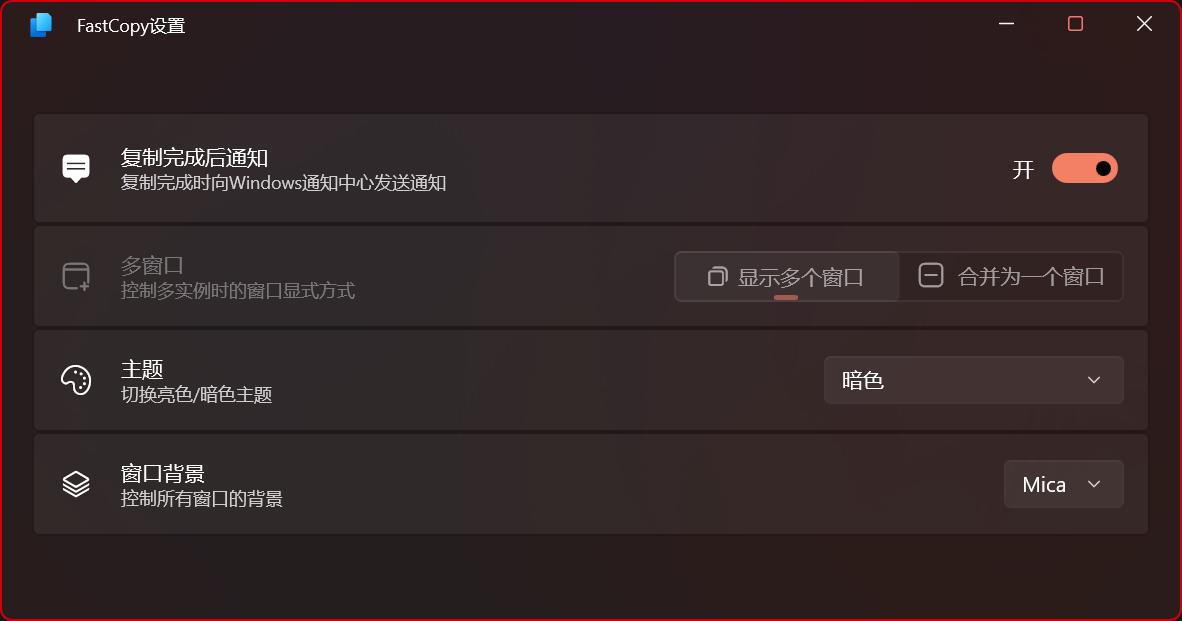
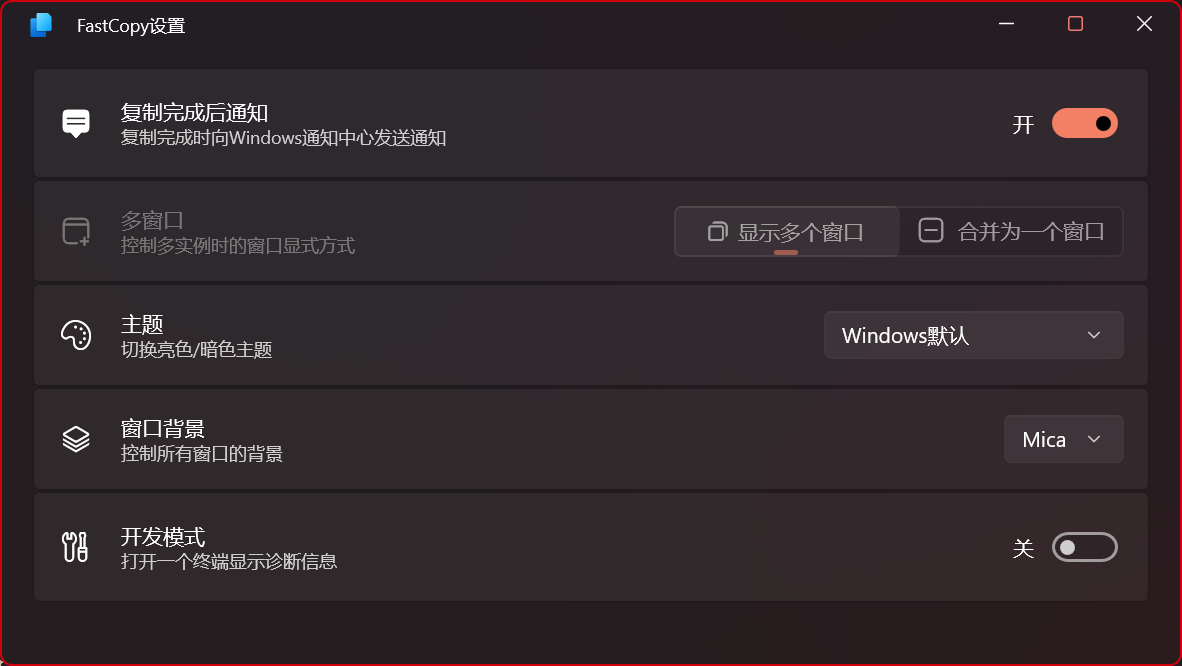
Minor fixes for window size under English

diff --git a/FastCopy/SettingsWindow.xaml b/FastCopy/SettingsWindow.xaml
@@ -9,7 +9,6 @@
     xmlns:mc="http://schemas.openxmlformats.org/markup-compatibility/2006"
     Title="SettingsWindow"
     Width="800"
-    Height="420"
     Activated="WindowEx_Activated"
     Icon="Assets/Main.ico"
     IsMaximizable="False"

diff --git a/FastCopyShellExtension/CopyOperationNames.cpp b/FastCopyShellExtension/CopyOperationNames.cpp
@@ -2,22 +2,13 @@
 #include <Windows.h>
 #include <algorithm>
 #include <string>
-
-static std::wstring getDefaultLanguage()
-{
-    ULONG bytes{};
-    ULONG numLanguages{};
-    GetUserPreferredUILanguages(MUI_LANGUAGE_NAME, &numLanguages, nullptr, &bytes);
-    std::wstring buffer(bytes, {});
-    GetUserPreferredUILanguages(MUI_LANGUAGE_NAME, &numLanguages, buffer.data(), &bytes);
-    return std::wstring{ buffer.data() };
-}
+#include <PackageConfig.h>
 
 CopyOperationNames& CopyOperationNames::GetInstance()
 {
     static CopyOperationNames s_instance = []
     {
-        auto defaultLang = getDefaultLanguage();
+        auto defaultLang = PackageConfig::GetDefaultLanguage();
         std::transform(defaultLang.begin(), defaultLang.end(), defaultLang.begin(), [](wchar_t c) { return towlower(c); });
         if (defaultLang == L"en-us")
         {

diff --git a/FastCopy/WelcomeWindow.xaml.cpp b/FastCopy/WelcomeWindow.xaml.cpp
@@ -6,6 +6,7 @@
 #include <SettingsWindow.xaml.h>
 #include "Global.h"
 #include "WindowHelper.h"
+#include <PackageConfig.h>
 
 // To learn more about WinUI, the WinUI project structure,
 // and more about our project templates, see: http://aka.ms/winui-project-info.
@@ -16,8 +17,8 @@ namespace winrt::FastCopy::implementation
 	{
 		ExtendsContentIntoTitleBar(true);
 		CenterWindow(*this, winrt::Windows::Graphics::SizeInt32{
-			.Width = 500,
-			.Height = 300
+			.Width = PackageConfig::GetDefaultLanguage() == L"zh-cn" ? 500 : 600,
+			.Height = 280
 		});
 	}
 

diff --git a/Public/PackageConfig.h b/Public/PackageConfig.h
@@ -1,6 +1,18 @@
 #pragma once
+#include <string>
+#include <Windows.h>
 
 namespace PackageConfig
 {
 	constexpr static auto PackageName = L"RoboCopyEx";
+
+    inline std::wstring GetDefaultLanguage()
+    {
+        ULONG bytes{};
+        ULONG numLanguages{};
+        GetUserPreferredUILanguages(MUI_LANGUAGE_NAME, &numLanguages, nullptr, &bytes);
+        std::wstring buffer(bytes, {});
+        GetUserPreferredUILanguages(MUI_LANGUAGE_NAME, &numLanguages, buffer.data(), &bytes);
+        return std::wstring{ buffer.data() };
+    }
 }

diff --git a/FastCopy/SettingsWindow.xaml.cpp b/FastCopy/SettingsWindow.xaml.cpp
@@ -5,12 +5,14 @@
 #endif
 
 #include "ViewModelLocator.h"
+#include <PackageConfig.h>
 
 namespace winrt::FastCopy::implementation
 {
     SettingsWindow::SettingsWindow()
     {
         ExtendsContentIntoTitleBar(true);
+        Height(PackageConfig::GetDefaultLanguage() == L"zh-cn" ? 420 : 450);
     }
 
     winrt::FastCopy::SettingsViewModel SettingsWindow::ViewModel()

diff --git a/README.md b/README.md
@@ -49,9 +49,9 @@ A GUI wrapper for Windows' built-in `robocopy` ~~and `xcopy`~~.
 
 - Settings
 
-<p align="center">
-    <image src="Screenshots/settings.png">
-</p>
+|Chinese|English|
+|---|---|
+|![](Screenshots/settings.png)|![](Screenshots/settings-en.png)
 
 - Multi-language support
   + English
